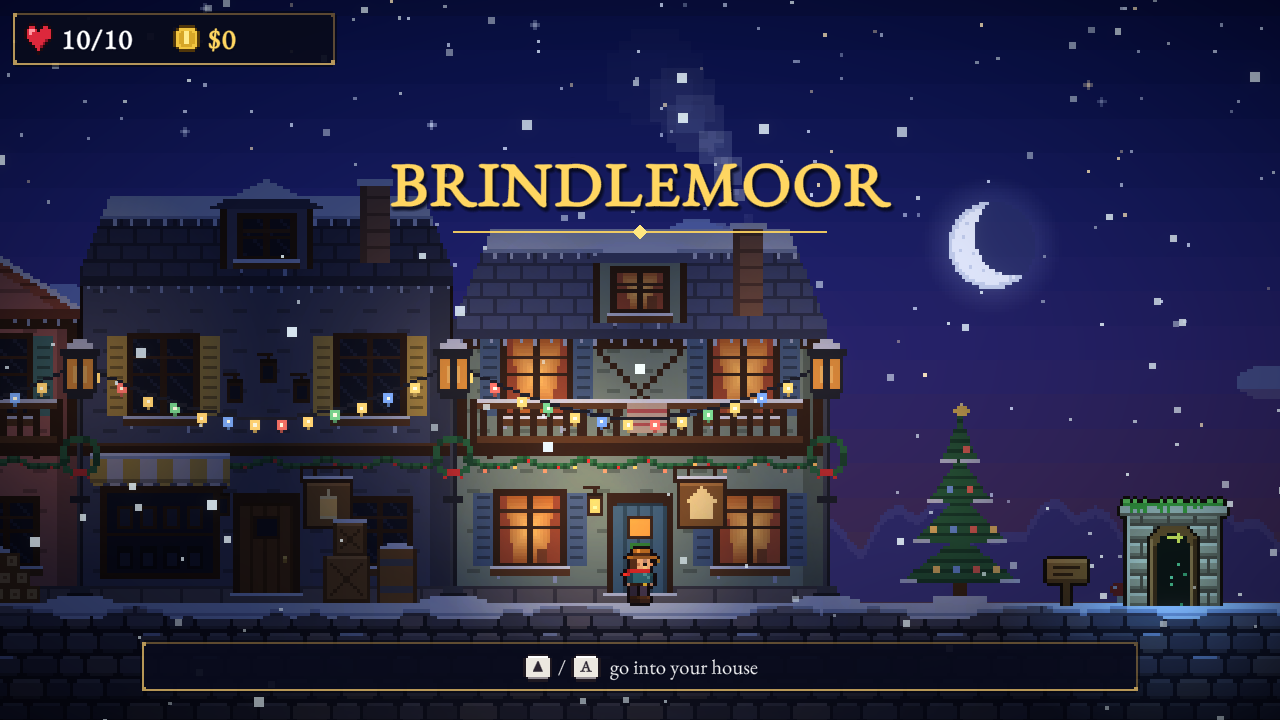
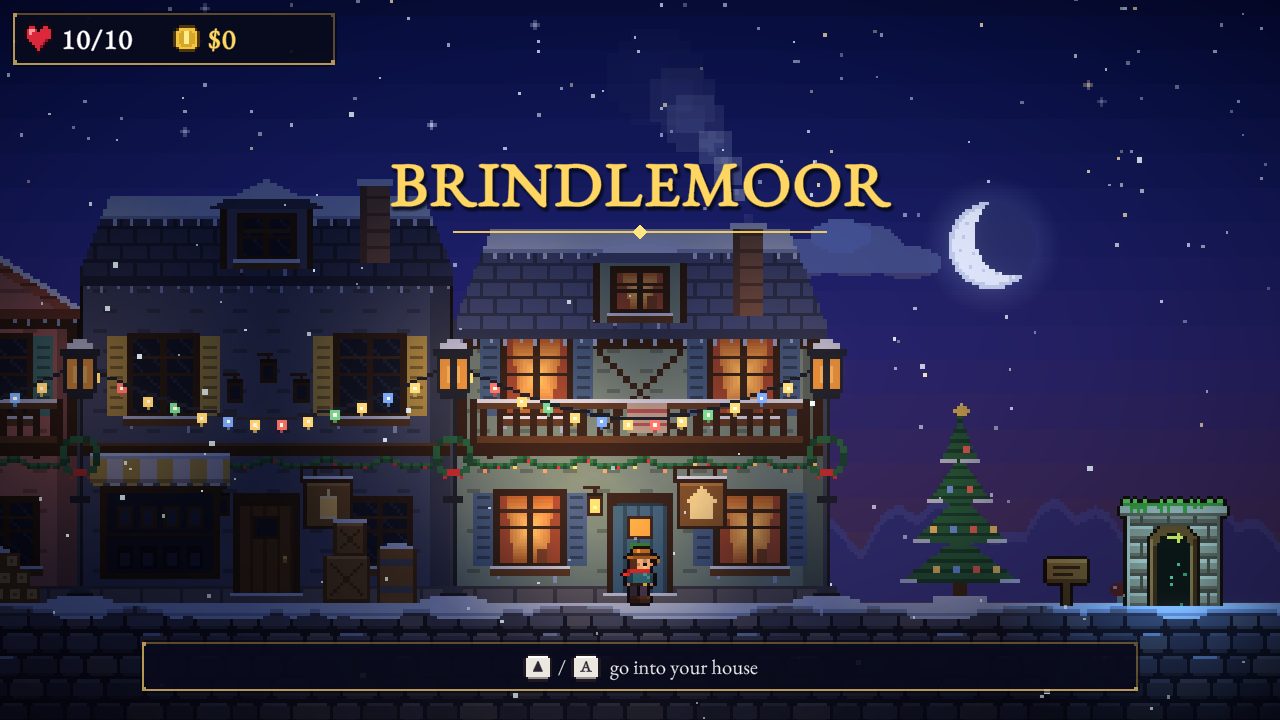
Village snowfall: smaller flakes

diff --git a/Assets/Game/Scripts/FX/Ambience.cs b/Assets/Game/Scripts/FX/Ambience.cs
@@ -105,9 +105,9 @@ namespace Gloomdelve
                     {
                         // a proper snowfall: flakes near and far, the big ones falling faster
                         float r = Random.value;
-                        m.size = r < 0.12f ? 3f : r < 0.5f ? 2f : 1f;
-                        m.vel = new Vector2(Random.Range(-0.7f, -0.1f), -Random.Range(0.7f, 1.3f) * (0.7f + m.size * 0.3f));
-                        m.alpha = m.size >= 3f ? Random.Range(0.75f, 1f) : Random.Range(0.45f, 0.9f);
+                        m.size = r < 0.1f ? 1.6f : r < 0.45f ? 1.1f : 0.7f;
+                        m.vel = new Vector2(Random.Range(-0.7f, -0.1f), -Random.Range(0.7f, 1.3f) * (0.6f + m.size * 0.5f));
+                        m.alpha = m.size >= 1.5f ? Random.Range(0.75f, 1f) : Random.Range(0.45f, 0.9f);
                     }
                     break;
                 case AmbientParticles.Spirits:
